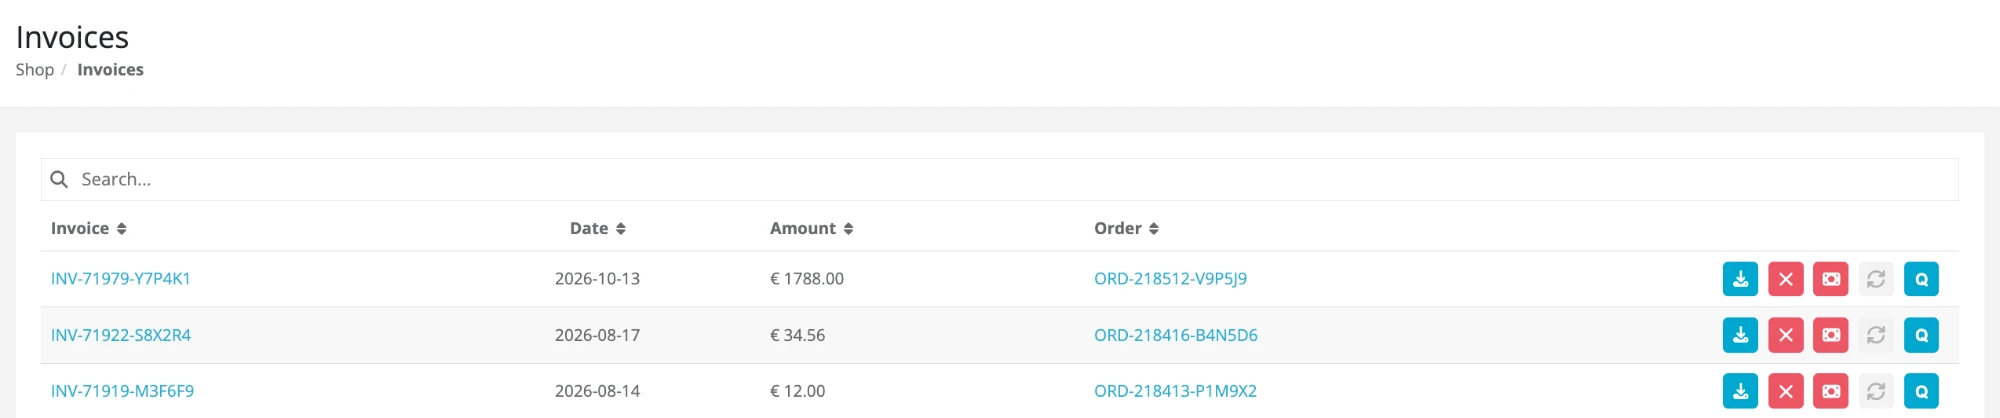
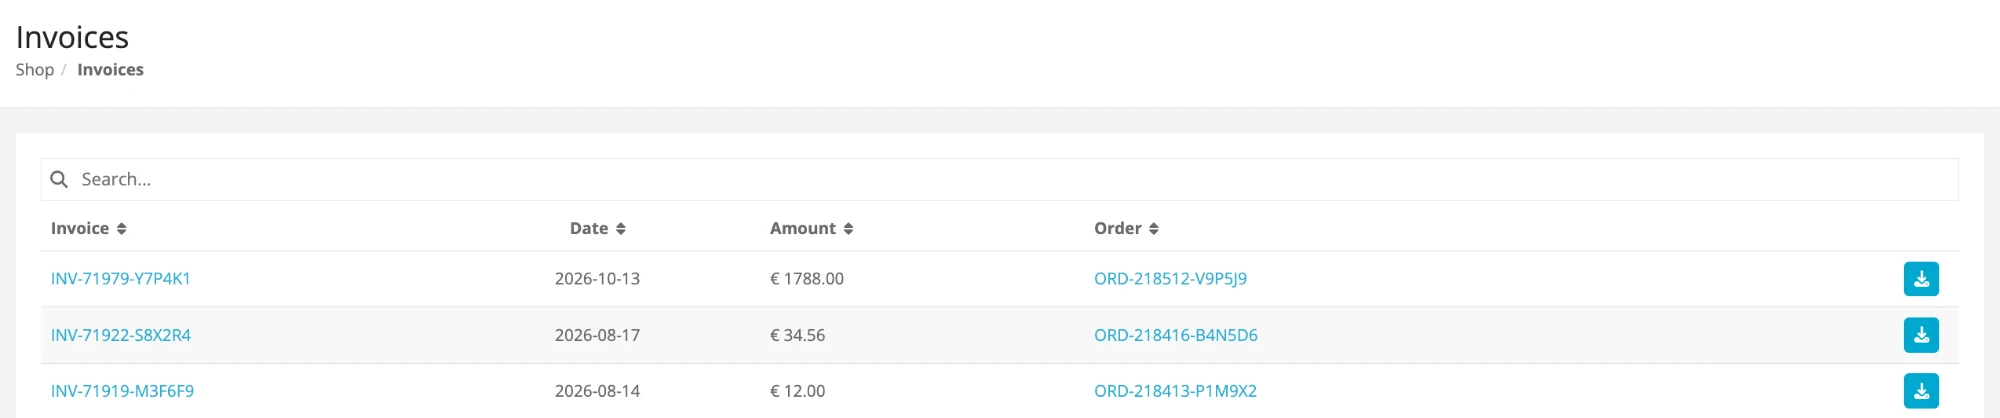
Shop: remove admin-only buttons from the Orders and Invoices figures; Download Invoice sentence and alt text

Changed region(s): [[0.837, 0.7464, 0.961, 0.9952], [0.837, 0.622, 0.992, 0.7153]]

diff --git a/posdealers/buy-resell/shop.md b/posdealers/buy-resell/shop.md
@@ -43,9 +43,9 @@ To check the status of your orders, open `Shop` > `Orders` in the left sidebar.
 
 ### Invoices
 
-To find the invoices of your orders, open `Shop` > `Invoices` in the left sidebar.
+To find the invoices of your orders, open `Shop` > `Invoices` in the left sidebar. To download an invoice, click `Download Invoice` (download icon) in its row.
 
-![Invoices page in the fiskaltrust.Portal shop with the search field and the list of invoices with their date, amount and order, and the action buttons of each invoice](./images/shop-invoices.png)
+![Invoices page in the fiskaltrust.Portal shop with the search field and the list of invoices with their date, amount and order, and the Download Invoice button of each invoice](./images/shop-invoices.png)
 
 *Figure 2. The `Invoices` page with the list of your invoices.*
 
